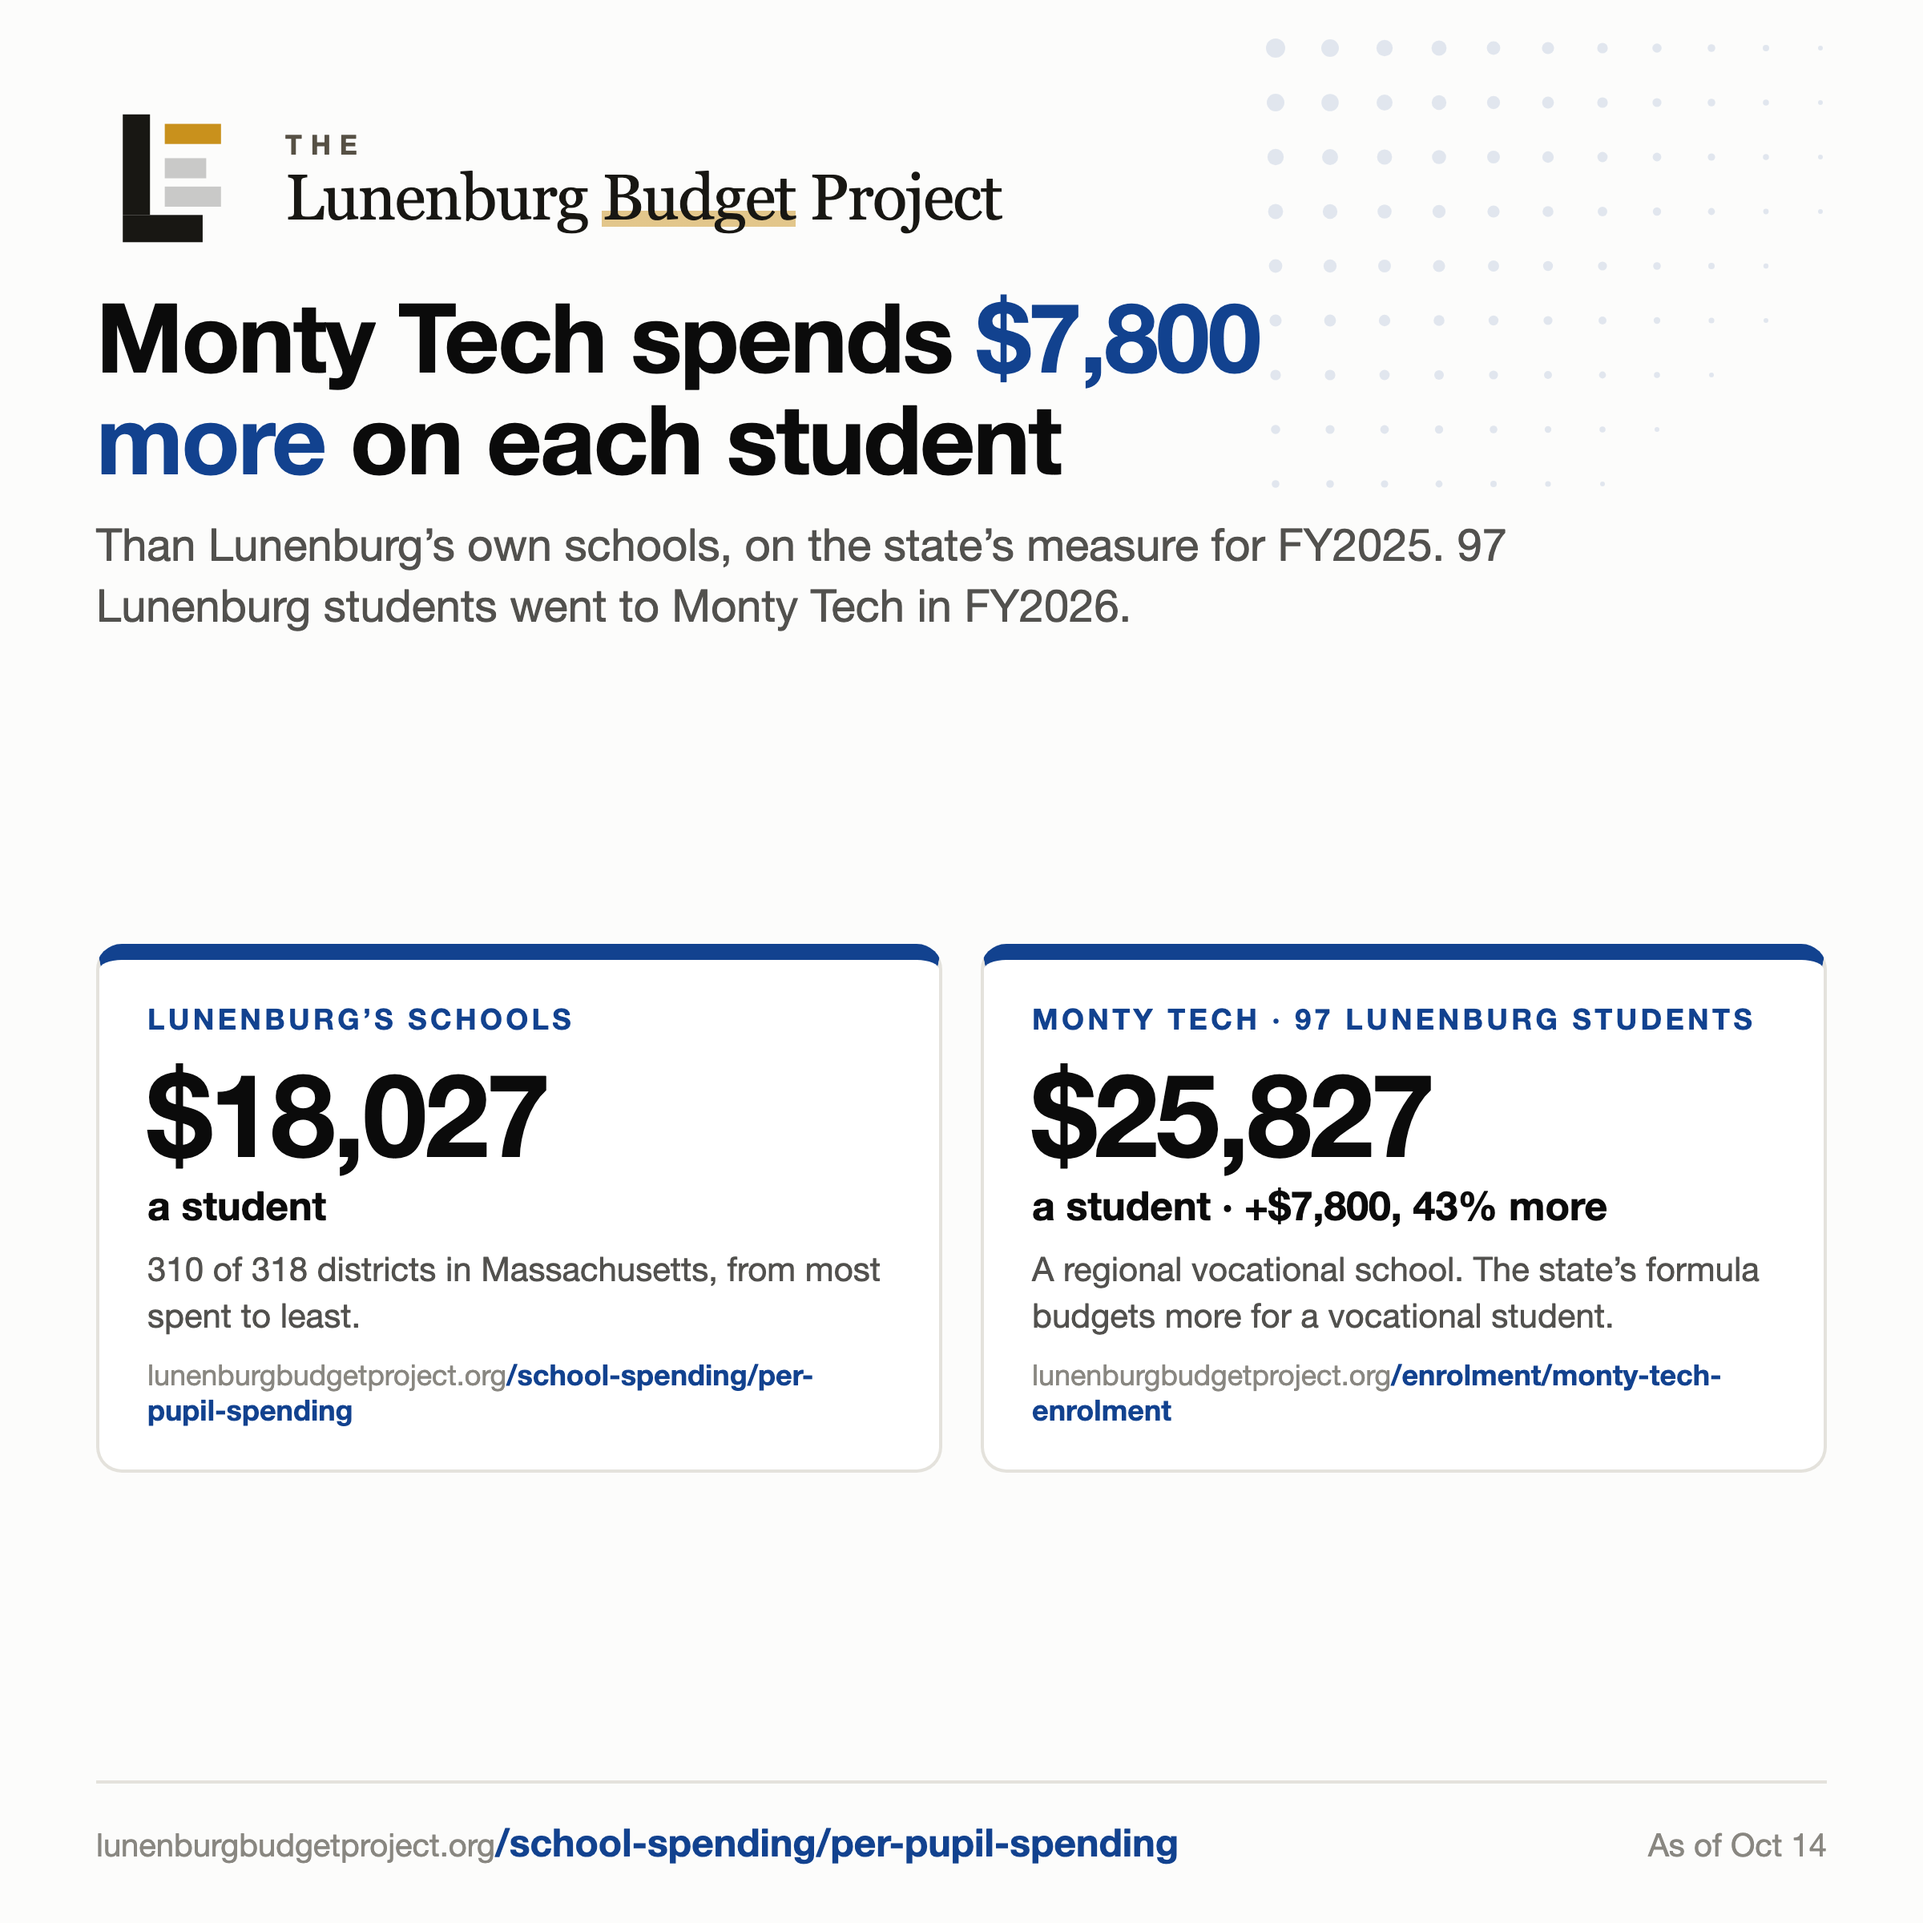
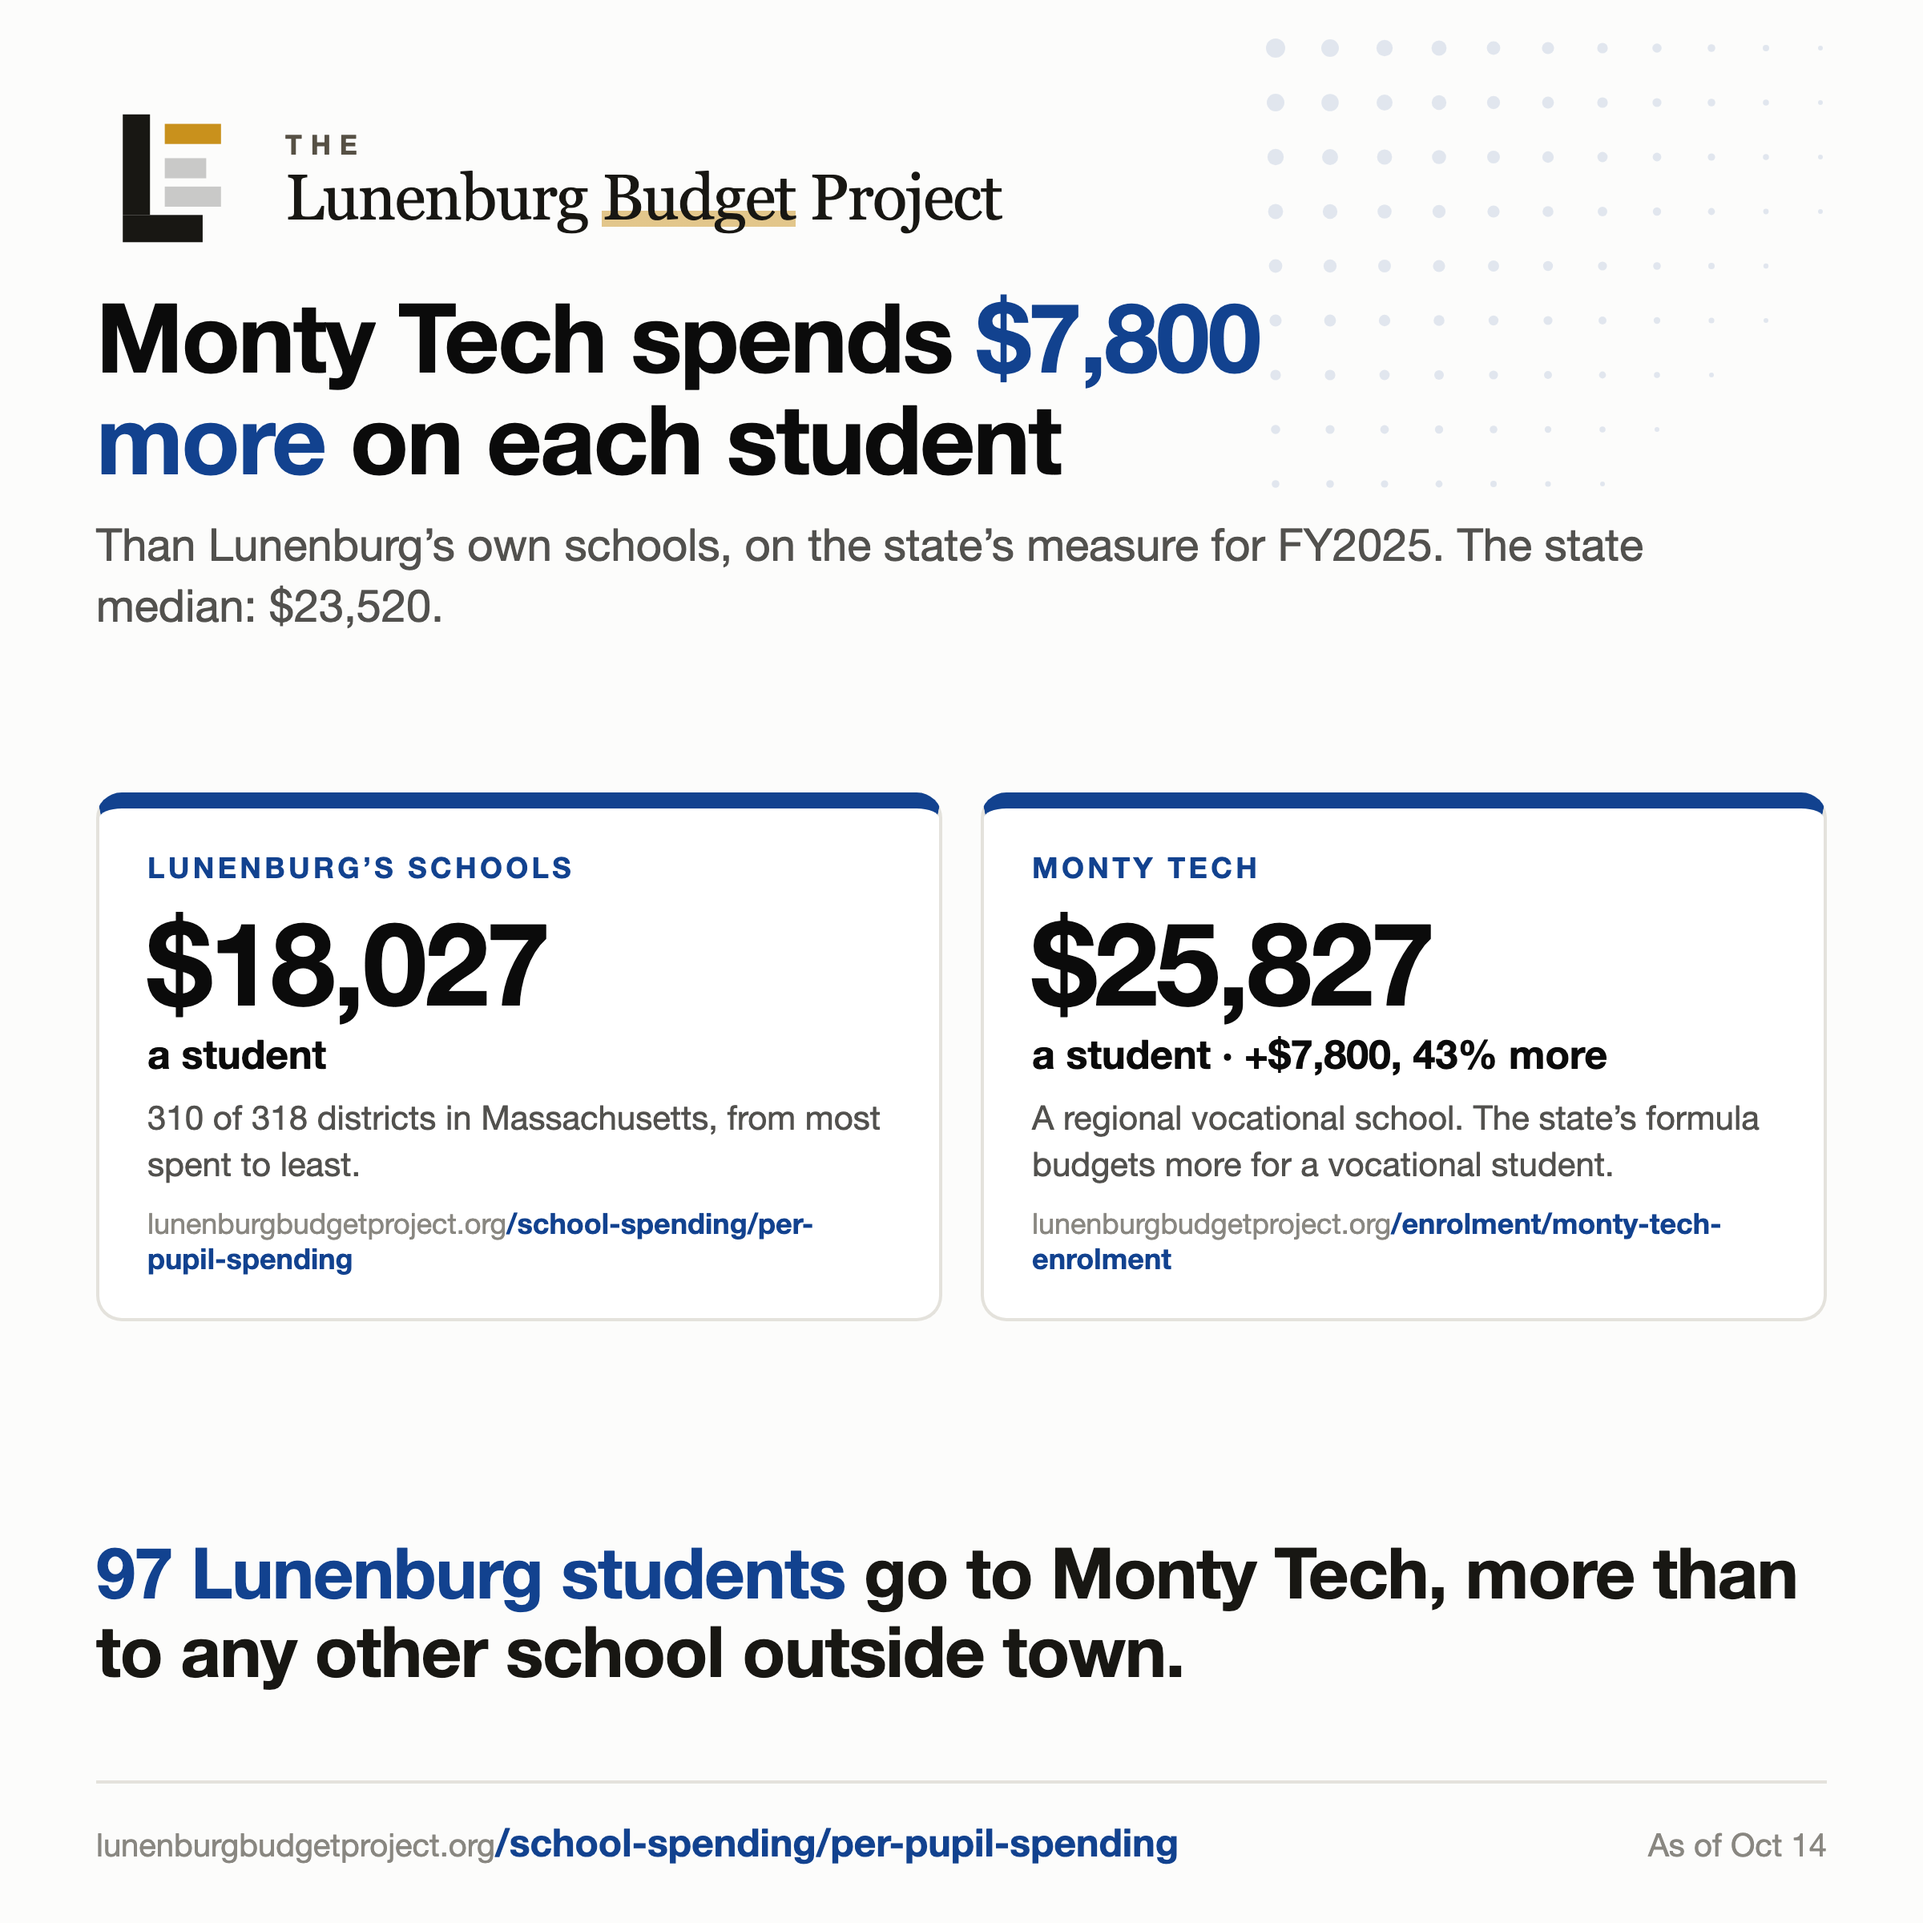
Social images can close on a conclusion line; the per-student image ends on the 97 Lunenburg students at Monty Tech
Claude-Session: https://claude.ai/code/session_014fdUitnBS7xxmQNfQ1GHBV

diff --git a/social/posts/2026-10-14-what-we-spend/image.html b/social/posts/2026-10-14-what-we-spend/image.html
@@ -8,6 +8,8 @@ body{width:1200px;height:1200px;background:#fcfcfb;color:#0b0b0b;position:relati
 .motif{position:absolute;left:0;top:0;z-index:0}
 .frame{position:relative;z-index:1;height:100%;display:flex;flex-direction:column}
 .k{font-weight:700;font-size:22px;letter-spacing:.14em;color:#12428f}
+.concl{font-weight:800;font-size:44px;line-height:1.12;letter-spacing:-.015em;margin:34px 0 56px;color:#181713}
+.concl em{font-style:normal;color:#12428f}
 .logo{display:flex;align-items:center;gap:22px}
 .logo .lm{width:96px;height:96px;flex:none}
 .logo .lt{font-size:17px;font-weight:600;letter-spacing:.32em;text-transform:uppercase;color:#565044}
@@ -53,7 +55,8 @@ h1 em{font-style:normal;color:#12428f}
 <div class="frame">
 <div class="logo"><svg class="lm" viewBox="4 3 26 26"><rect x="8.5" y="5" width="4.6" height="17" fill="#181713"/><rect x="8.5" y="22" width="13.5" height="4.6" fill="#181713"/><rect x="15.6" y="6.6" width="9.5" height="3.4" fill="#c9911c"/><rect x="15.6" y="12.4" width="7" height="3.4" fill="#181713" opacity=".22"/><rect x="15.6" y="17.2" width="9.5" height="3.4" fill="#181713" opacity=".22"/></svg><div class="lw"><div class="lt">The</div><div class="ln" style="font-family:Georgia, &quot;Iowan Old Style&quot;, &quot;Times New Roman&quot;, serif">Lunenburg <span class="lhl">Budget</span> Project</div></div></div>
 <h1>Monty Tech spends <em>$7,800 more</em> on each student</h1>
-<p class="sub">Than Lunenburg’s own schools, on the state’s measure for FY2025. 97 Lunenburg students went to Monty Tech in FY2026.</p>
-<div class="body"><div class="tiles"><div class="t"><div class="te">LUNENBURG’S SCHOOLS</div><div class="tn">$18,027</div><div class="tu">a student</div><div class="td">310 of 318 districts in Massachusetts, from most spent to least.</div><div class="tp">lunenburgbudgetproject.org<b>/school-spending/per-pupil-spending</b></div></div><div class="t"><div class="te">MONTY TECH · 97 LUNENBURG STUDENTS</div><div class="tn">$25,827</div><div class="tu">a student · +$7,800, 43% more</div><div class="td">A regional vocational school. The state’s formula budgets more for a vocational student.</div><div class="tp">lunenburgbudgetproject.org<b>/enrolment/monty-tech-enrolment</b></div></div></div></div>
+<p class="sub">Than Lunenburg’s own schools, on the state’s measure for FY2025. The state median: $23,520.</p>
+<div class="body"><div class="tiles"><div class="t"><div class="te">LUNENBURG’S SCHOOLS</div><div class="tn">$18,027</div><div class="tu">a student</div><div class="td">310 of 318 districts in Massachusetts, from most spent to least.</div><div class="tp">lunenburgbudgetproject.org<b>/school-spending/per-pupil-spending</b></div></div><div class="t"><div class="te">MONTY TECH</div><div class="tn">$25,827</div><div class="tu">a student · +$7,800, 43% more</div><div class="td">A regional vocational school. The state’s formula budgets more for a vocational student.</div><div class="tp">lunenburgbudgetproject.org<b>/enrolment/monty-tech-enrolment</b></div></div></div></div>
+<p class="concl"><em>97 Lunenburg students</em> go to Monty Tech, more than to any other school outside town.</p>
 <div class="foot"><span>lunenburgbudgetproject.org<b>/school-spending/per-pupil-spending</b></span><span>As of Oct 14</span></div>
 </div></body></html>

diff --git a/scripts/build_social_post.py b/scripts/build_social_post.py
@@ -244,6 +244,8 @@ body{width:%(w)spx;height:%(h)spx;background:#fcfcfb;color:#0b0b0b;position:rela
 .motif{position:absolute;left:0;top:0;z-index:0}
 .frame{position:relative;z-index:1;height:100%%;display:flex;flex-direction:column}
 .k{font-weight:700;font-size:22px;letter-spacing:.14em;color:%(a)s}
+.concl{font-weight:800;font-size:%(cs)spx;line-height:1.12;letter-spacing:-.015em;margin:34px 0 56px;color:#181713}
+.concl em{font-style:normal;color:%(a)s}
 .logo{display:flex;align-items:center;gap:22px}
 .logo .lm{width:96px;height:96px;flex:none}
 .logo .lt{font-size:17px;font-weight:600;letter-spacing:.32em;text-transform:uppercase;color:#565044}
@@ -303,7 +305,7 @@ def build_html(spec, slug, data):
             raise SystemExit(f'REFUSING: emphasis {e!r} is not in the headline')
         head = head.replace(e, f'<em>{e}</em>', 1)
     path = html.escape(img.get('path', ''))
-    css = CSS % dict(w=w, h=h, a=color, hs=img.get('headline_size', 66))
+    css = CSS % dict(w=w, h=h, a=color, hs=img.get('headline_size', 66), cs=img.get('conclusion_size', 50))
     return f'''<!doctype html><html><head><meta charset="utf-8">
 <!-- GENERATED by scripts/build_social_post.py from post.json. Flare: {name} / {motif}. -->
 <style>{css}</style></head><body>
@@ -313,6 +315,7 @@ def build_html(spec, slug, data):
 <h1>{head}</h1>
 {f'<p class="sub">{R(img["sub"])}</p>' if img.get('sub') else ''}
 <div class="body">{body}</div>
+{conclusion_html(img, R)}
 <div class="foot"><span>{SITE}<b>{path}</b></span><span>{R(img["as_of"]) if img.get("as_of") else ""}</span></div>
 </div></body></html>
 '''
@@ -347,6 +350,23 @@ def logo_html(img):
     return ('<div class="logo">%s<div class="lw"><div class="lt">%s</div>'
             '<div class="ln" style="font-family:%s">%s</div></div></div>'
             % (mark, html.escape(_brand.NAME_THE), html.escape(_brand.SERIF, quote=True), name))
+
+
+# THE LAST WORD. TJ, 14 October 2026, on the per-student image: "put it in bigger text
+# under neither the dollar amount boxes ... as sort of a final conclusion to wrap it all
+# together." Optional, under the layout: `conclusion` is the sentence, `conclusion_em` the
+# part drawn in the accent (it must appear in the sentence, as `emphasis` must in the
+# headline). Templated like every other string, so its figures are read, not typed.
+def conclusion_html(img, R):
+    if not img.get('conclusion'):
+        return ''
+    c = R(img['conclusion'])
+    if img.get('conclusion_em'):
+        e = R(img['conclusion_em'])
+        if e not in c:
+            raise SystemExit(f'REFUSING: conclusion_em {e!r} is not in the conclusion')
+        c = c.replace(e, f'<em>{e}</em>', 1)
+    return f'<p class="concl">{c}</p>'
 
 def shoot(html_path, png_path, size):
     w, h = SIZES[size]
